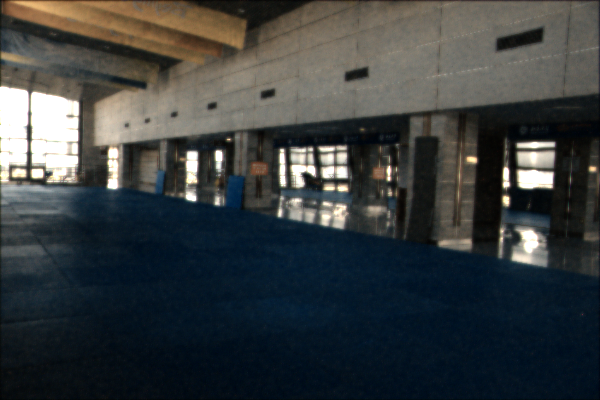
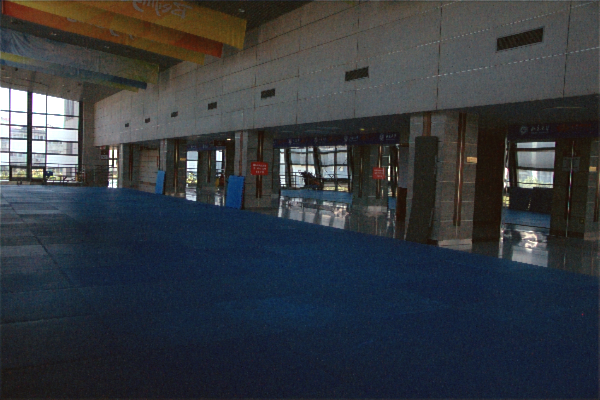
feat(dark_arch-created): dark_arch

diff --git a/basicsr/models/archs/dark_arch.py b/basicsr/models/archs/dark_arch.py
@@ -7,6 +7,28 @@ import numpy as np
 from pdb import set_trace as stx
 import math
 
+
+class Illumination_Estimator(nn.Module):
+    def __init__(
+            self, n_fea_middle, n_fea_in=4, n_fea_out=3):
+        super(Illumination_Estimator, self).__init__()
+
+        self.conv1 = nn.Conv2d(n_fea_in, n_fea_middle, kernel_size=1, bias=True)
+
+        self.depth_conv = nn.Conv2d(
+            n_fea_middle, n_fea_middle, kernel_size=5, padding=2, bias=True, groups=n_fea_in)
+
+        self.conv2 = nn.Conv2d(n_fea_middle, n_fea_out, kernel_size=1, bias=True)
+
+    def forward(self, img):        
+        mean_c = img.mean(dim=1).unsqueeze(1)
+        input = torch.cat([img,mean_c], dim=1)
+        x_1 = self.conv1(input)
+        illu_map = self.conv2(self.depth_conv(x_1))
+        return illu_map
+
+
+
 ##########################################################################
 ##---------- Selective Kernel Feature Fusion (SKFF) ----------
 class SKFF(nn.Module):
@@ -42,84 +64,12 @@ class SKFF(nn.Module):
         attention_vectors = [fc(feats_Z) for fc in self.fcs]
         attention_vectors = torch.cat(attention_vectors, dim=1)
         attention_vectors = attention_vectors.view(batch_size, self.height, n_feats, 1, 1)
-        # stx()
         attention_vectors = self.softmax(attention_vectors)
         
         feats_V = torch.sum(inp_feats*attention_vectors, dim=1)
         
         return feats_V        
 
-
-
-class ContextBlock(nn.Module):
-
-    def __init__(self, n_feat, bias=False):
-        super(ContextBlock, self).__init__()
-
-        self.conv_mask = nn.Conv2d(n_feat, 1, kernel_size=1, bias=bias)
-        self.softmax = nn.Softmax(dim=2)
-
-        self.channel_add_conv = nn.Sequential(
-            nn.Conv2d(n_feat, n_feat, kernel_size=1, bias=bias),
-            nn.LeakyReLU(0.2),
-            nn.Conv2d(n_feat, n_feat, kernel_size=1, bias=bias)
-        )
-
-    def modeling(self, x):
-        batch, channel, height, width = x.size()
-        input_x = x
-        # [N, C, H * W]
-        input_x = input_x.view(batch, channel, height * width)
-        # [N, 1, C, H * W]
-        input_x = input_x.unsqueeze(1)
-        # [N, 1, H, W]
-        context_mask = self.conv_mask(x)
-        # [N, 1, H * W]
-        context_mask = context_mask.view(batch, 1, height * width)
-        # [N, 1, H * W]
-        context_mask = self.softmax(context_mask)
-        # [N, 1, H * W, 1]
-        context_mask = context_mask.unsqueeze(3)
-        # [N, 1, C, 1]
-        context = torch.matmul(input_x, context_mask)
-        # [N, C, 1, 1]
-        context = context.view(batch, channel, 1, 1)
-
-        return context
-
-    def forward(self, x):
-        # [N, C, 1, 1]
-        context = self.modeling(x)
-
-        # [N, C, 1, 1]
-        channel_add_term = self.channel_add_conv(context)
-        x = x + channel_add_term
-
-        return x
-
-##########################################################################
-### --------- Residual Context Block (RCB) ----------
-class RCB(nn.Module):
-    def __init__(self, n_feat, kernel_size=3, reduction=8, bias=False, groups=1):
-        super(RCB, self).__init__()
-        
-        act = nn.LeakyReLU(0.2)
-
-        self.body = nn.Sequential(
-            nn.Conv2d(n_feat, n_feat, kernel_size=3, stride=1, padding=1, bias=bias, groups=groups),
-            act
-            # , nn.Conv2d(n_feat, n_feat, kernel_size=3, stride=1, padding=1, bias=bias, groups=groups)
-        )
-
-        self.act = act
-        
-        self.gcnet = ContextBlock(n_feat, bias=bias)
-
-    def forward(self, x):
-        res = self.body(x)
-        # res = self.act(self.gcnet(res))
-        res += x
-        return res
     
 ##########################################################################
 ### --------- Simplified Context Block (SCB) ----------
@@ -222,9 +172,9 @@ class MRB(nn.Module):
 
         self.n_feat, self.height, self.width = n_feat, height, width
 
-        self.dau_top = RCB(int(n_feat*chan_factor**0), bias=bias, groups=groups)
-        self.dau_mid = RCB(int(n_feat*chan_factor**1), bias=bias, groups=groups)
-        self.dau_bot = RCB(int(n_feat*chan_factor**2), bias=bias, groups=groups)
+        self.dau_top = SimplifiedRCB(int(n_feat*chan_factor**0), bias=bias, groups=groups)
+        self.dau_mid = SimplifiedRCB(int(n_feat*chan_factor**1), bias=bias, groups=groups)
+        self.dau_bot = SimplifiedRCB(int(n_feat*chan_factor**2), bias=bias, groups=groups)
 
         self.down2 = DownSample(int((chan_factor**0)*n_feat),2,chan_factor)
         self.down4 = nn.Sequential(
@@ -255,80 +205,73 @@ class MRB(nn.Module):
         x_mid = self.skff_mid([x_mid, self.up32_1(x_bot)])
         x_top = self.skff_top([x_top, self.up21_1(x_mid)])
 
-        # x_top = self.dau_top(x_top)
-        # x_mid = self.dau_mid(x_mid)
-        # x_bot = self.dau_bot(x_bot)
+        out = self.conv_out(x_top)
+        out = out + x
 
-        # x_mid = self.skff_mid([x_mid, self.up32_2(x_bot)])
-        # x_top = self.skff_top([x_top, self.up21_2(x_mid)])
+        return out
+    
 
-        # x_top = self.skff_top([x_top, self.up32_2(x_bot)])
+class MMRB(nn.Module):
+    def __init__(self, n_feat, height, width, chan_factor, bias,groups):
+        super(MMRB, self).__init__()
+
+        self.n_feat, self.height, self.width = n_feat, height, width
+
+        self.dau_top = SimplifiedRCB(int(n_feat*chan_factor**0), bias=bias, groups=groups)
+        #self.dau_mid = SimplifiedRCB(int(n_feat*chan_factor**1), bias=bias, groups=groups)
+
+        self.down2 = DownSample(int((chan_factor**0)*n_feat),2,chan_factor)
+
+        self.up21_1 = UpSample(int((chan_factor**1)*n_feat),2,chan_factor)
+
+        self.conv_out = nn.Conv2d(n_feat, n_feat, kernel_size=1, padding=0, bias=bias)
+
+        self.skff_top = SKFF(int(n_feat*chan_factor**0), 2)
+
+    def forward(self, x):
+        x_top = x.clone()
+        x_mid = self.down2(x_top)
+
+        x_top = self.dau_top(x_top)
+
+        x_top = self.skff_top([x_top, self.up21_1(x_mid)])
 
         out = self.conv_out(x_top)
         out = out + x
 
         return out
 
-##########################################################################
-##---------- Recursive Residual Group (RRG) ----------
-class RRG(nn.Module):
-    def __init__(self, n_feat, n_MRB, height, width, chan_factor, bias=False, groups=1):
-        super(RRG, self).__init__()
-        modules_body = [MRB(n_feat, height, width, chan_factor, bias, groups) for _ in range(n_MRB)]
-        modules_body.append(nn.Conv2d(n_feat, n_feat, kernel_size=3, stride=1, padding=1, bias=bias))
-        self.body = nn.Sequential(*modules_body)
-
-    def forward(self, x):
-        res = self.body(x)
-        res += x
-        return res
-
-
-#---------- MIRNet  -----------------------
-# TODO: change the name of the model
-class MIRNet_v2(nn.Module):
+#---------- DarkNet  -----------------------
+class DarkNet(nn.Module):
     def __init__(self,
         inp_channels=3,
         out_channels=3,
         n_feat=80,
         chan_factor=1.5,
-        n_RRG=4,
-        n_MRB=2,
         height=3,
         width=2,
-        scale=1,
         bias=False,
         task= None
     ):
-        super(MIRNet_v2, self).__init__()
-
-        kernel_size=3
+        super(DarkNet, self).__init__()
         self.task = task
-
         self.conv_in = nn.Conv2d(inp_channels, n_feat, kernel_size=3, padding=1, bias=bias)
-
-        # modules_body = []
-        
-        # modules_body.append(RRG(n_feat, n_MRB, height, width, chan_factor, bias, groups=1))
-        # modules_body.append(RRG(n_feat, n_MRB, height, width, chan_factor, bias, groups=2))
-        # modules_body.append(RRG(n_feat, n_MRB, height, width, chan_factor, bias, groups=4))
-        # modules_body.append(RRG(n_feat, n_MRB, height, width, chan_factor, bias, groups=4))
-
-        # self.body = nn.Sequential(*modules_body)
-        self.body = RRG(n_feat, n_MRB, height, width, chan_factor, bias, groups=1)
+        modules_body = []
+        self.estimator = Illumination_Estimator(n_feat)
+        modules_body.append(MMRB(n_feat, height, width, chan_factor, bias, groups=1))
+        modules_body.append(nn.Conv2d(n_feat, n_feat, kernel_size=3, stride=1, padding=1, bias=bias))
+        self.body = nn.Sequential(*modules_body)
         self.conv_out = nn.Conv2d(n_feat, out_channels, kernel_size=3, padding=1, bias=bias)
+
         
 
     def forward(self, inp_img):
+        illu_map = self.estimator(inp_img)
+        inp_img = inp_img * illu_map + inp_img
+
         shallow_feats = self.conv_in(inp_img)
         deep_feats = self.body(shallow_feats)
-
-        if self.task == 'defocus_deblurring':
-            deep_feats += shallow_feats
-            out_img = self.conv_out(deep_feats)
-
-        else:
-            out_img = self.conv_out(deep_feats)
-            out_img += inp_img
+        out_img = self.conv_out(deep_feats)
+        out_img += inp_img
 
         return out_img

diff --git a/basicsr/inference.py b/basicsr/inference.py
@@ -8,7 +8,7 @@ import tqdm
 from skimage import img_as_ubyte
 from natsort import natsorted
 from basicsr.metrics.psnr_ssim import calculate_psnr, calculate_ssim
-from models.archs.mirnet_v2_arch import *
+from models.archs.dark_arch import *
 
 
 def main():
@@ -16,8 +16,9 @@ def main():
     parser.add_argument(
         '--model_path',
         type=str,
+        
         default=  # noqa: E251
-        'experiments/Enhancement_MIRNet_v2_lol/models/net_g_latest.pth'  # noqa: E501
+        'experiments/Enhancement_DarkNet_lol/models/net_g_3000.pth'  # noqa: E501
     )
     parser.add_argument('--input', type=str, default='Enhancement/Datasets/test/Lol/input', help='input test image folder')
     parser.add_argument('--output', type=str, default='results/Enhancement_test', help='output folder')
@@ -25,8 +26,8 @@ def main():
 
     device = torch.device('cuda' if torch.cuda.is_available() else 'cpu')
     # set up model
-    model = MIRNet_v2()
-    model.load_state_dict(torch.load(args.model_path)['params'], strict=True)
+    model = DarkNet()
+    model.load_state_dict(torch.load(args.model_path)['params'], strict=False)
     model.eval()
     model = model.to(device)
     print("Model Info: ",model)

diff --git a/basicsr/version.py b/basicsr/version.py
@@ -1,5 +1,5 @@
 # GENERATED VERSION FILE
-# TIME: Tue Apr 23 21:01:22 2024
+# TIME: Wed Apr 24 14:35:18 2024
 __version__ = '1.2.0'
-__gitsha__ = 'unknown'
+__gitsha__ = 'd1925c1'
 version_info = (1, 2, 0)

diff --git a/README.md b/README.md
@@ -6,7 +6,7 @@ Follow these intructions
 ## 1. Clone our repository
 ```shell
 git clone git@github.com:hollinsStuart/dark.git
-cd MIRNetv2
+cd dark
 ```
 
 ## 2. Make conda environment
@@ -36,11 +36,15 @@ pip install -r requirements.txt
 python setup.py develop
 ```
 
+## 5. Download Dataset:
+We use the following datasets:
+Lol_train  https://drive.google.com/file/d/1K29vsPfMUsAkYvmNLcaUgiOEYGMxFydd/view?usp=sharing
+Lol_test  https://drive.google.com/file/d/1jUGpsih3T-1H7t3gqpEdj7ZD5GcU_v0m/view?usp=sharing
 
-## 5. Modify the configuration file
+## 6. Modify the configuration file
 Please modify the parameters in Enhancement/Options/dark_train_config.yml
 
-## 6. Train the model
+## 7. Train the model
 ```shell
 python3 basicsr/train.py -opt Enhancement/Options/dark_train_config.yml
 ```
